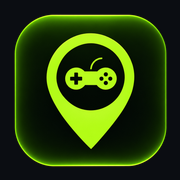
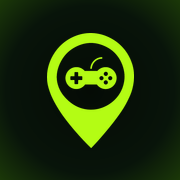
PWA ikonkasi: maskable/apple'da plitka o'rniga butun maydonli belgi
Android/iOS ikonkani o'zi niqoblaydi, plitka fon ustida "ramka ichida
ramka" bo'lib chiqardi. Endi faqat pin+geympad belgisi radial fon ustida.

diff --git a/CLAUDE.md b/CLAUDE.md
@@ -42,7 +42,7 @@ Gamerlar PC club'larni (specs, narx, joylashuv) bir joyda topadi.
 - `minPricePerHour` = `minRegularHourPrice()` (`src/lib/branches.ts`): barcha zonalardagi eng arzon oddiy (timeWindow'siz va `night` bo'lmagan) 1 soatlik narx; Bezone uchun 20 000 (kunduzgi 15 000 hisobga olinmaydi, u faqat club sahifasidagi narxlar jadvalida ko'rinadi). Club sahifasidagi zona tabi ("dan X") ham shu `minRegularHourPrice` dan oladi — karta va tab narxi doim bir xil. 
 - 6-qadam: taxminiy yetib borish vaqti (API'siz) — `src/lib/directions.ts`: yo'l = haversine × 1.3; ≤1.5 km piyoda 5 km/soat, aks holda mashinada 25 km/soat.
 - Launch oldi tuzatishlar: mobil tap target'lar ≥44px (filtr chiplari `h-11`, Yaqin|Arzon `min-h-11`, club sahifasidagi Google Maps havolasi `min-h-11`, `.name-pin::before` ko'rinmas bosish maydoni — pin ko'rinishi va transform o'zgarmagan). Joylashuv: ruxsat berilmasa/xato bo'lsa 3.5 soniyalik xabar (`home.locationDenied` / `home.locationError`) — xarita tugmasidan bosilsa desktop'da tugma yonida, mobilda chiplar ostida; "Yaqin"dan bosilsa toggle ostida. Xaritada joylashuv tugmasi pastki o'ng burchakda (mobilda Ro'yxat tugmasi qatorida), zoom pastki chapda (OSM yozuvi ustida). Club sahifasi `params`'ni `<Suspense>` ichida o'qiydi (`ClubSkeleton` fallback) — instant navigatsiya ogohlantirishi yo'q.
-- PWA (o'rnatiladigan sayt): `src/app/manifest.ts` (`/manifest.webmanifest`, start_url `/`), ikonkalar `public/icons/` (192, 512, maskable-512, apple-touch), favicon `src/app/icon.png` + `apple-icon.png`. Service worker/offline/push YO'Q. Ikonkalar `public/brand/logo-source.png` (shaffof fonli yashil plitka: pin + geympad) dan `npm run icons` (`scripts/make-icons.mjs`, sharp) bilan qayta yaratiladi — plitka alpha bo'yicha kesiladi; "any" va favicon shaffof, apple-touch/maskable fon `--background` ustida (maskable 0.6 masshtab). Fon rangi `THEME_BG` (`src/config.ts`) = globals.css `--background` (`src/lib/theme.test.ts` tekshiradi). `viewportFit: "cover"` + `appleWebApp` black-translucent: body'da `padding-top: env(safe-area-inset-top)` va status bar ostida fon rangli `body::before` chiziq; bosh sahifa sticky/fixed sarlavhasi `top-[env(safe-area-inset-top)]`.
+- PWA (o'rnatiladigan sayt): `src/app/manifest.ts` (`/manifest.webmanifest`, start_url `/`), ikonkalar `public/icons/` (192, 512, maskable-512, apple-touch), favicon `src/app/icon.png` + `apple-icon.png`. Service worker/offline/push YO'Q. Ikonkalar `public/brand/logo-source.png` (shaffof fonli yashil plitka: pin + geympad) dan `npm run icons` (`scripts/make-icons.mjs`, sharp) bilan qayta yaratiladi — plitka alpha bo'yicha kesiladi; "any" va favicon — shaffof fonda plitka; apple-touch/maskable — plitka EMAS, faqat belgi (pin+geympad, yashil kanal bo'yicha niqob) butun maydonli qorong'i-yashil radial fon ustida (OS o'zi yumaloqlaydi, "ramka ichida ramka" bo'lmasin; belgi balandligi maskable 0.6, apple 0.64). Fon rangi `THEME_BG` (`src/config.ts`) = globals.css `--background` (`src/lib/theme.test.ts` tekshiradi). `viewportFit: "cover"` + `appleWebApp` black-translucent: body'da `padding-top: env(safe-area-inset-top)` va status bar ostida fon rangli `body::before` chiziq; bosh sahifa sticky/fixed sarlavhasi `top-[env(safe-area-inset-top)]`.
 
 **Muhim fayllar**
 - `src/data/clubs.ts` — ma'lumot; `src/types/club.ts` — tiplar.
